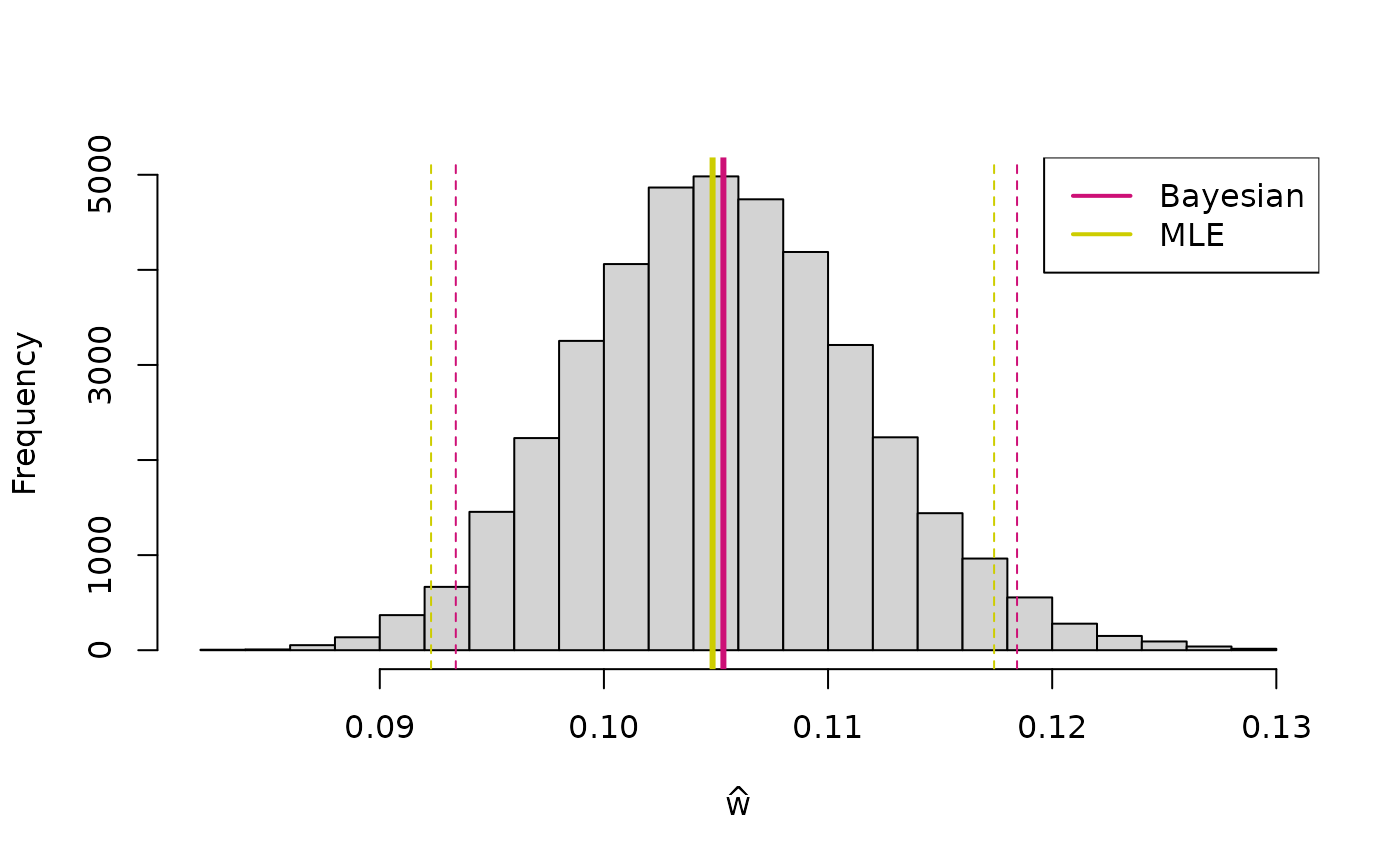
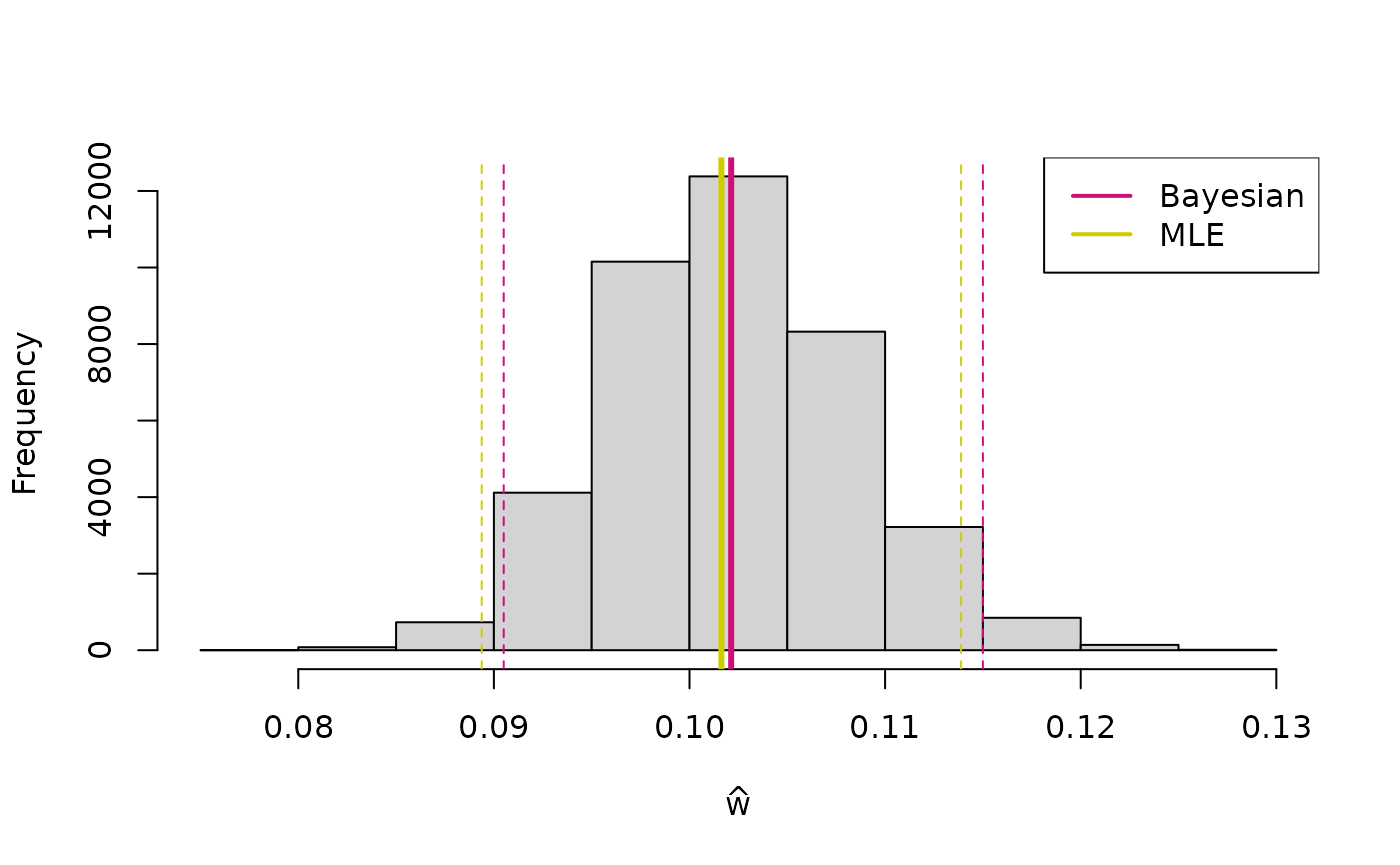
Add citation etc.

diff --git a/docs/index.html b/docs/index.html
@@ -70,6 +70,14 @@
 </h1></div>
 <p>Please refer to the online documentation at <a href="https://mikldk.github.io/wgsLR" class="external-link uri">https://mikldk.github.io/wgsLR</a>, including the vignettes.</p>
 <div class="section level2">
+<h2 id="scientific-publication">Scientific publication<a class="anchor" aria-label="anchor" href="#scientific-publication"></a>
+</h2>
+<p>The research associated with this software is described in</p>
+<blockquote>
+<p>Andersen, M. M., Kampmann, M.-L., Jepsen, A. H., Morling, N., Eriksen, P. S., Børsting, C., &amp; Andersen, J. D. (2025). <em>Shotgun DNA sequencing for human identification: Dynamic SNP selection and likelihood ratio calculations accounting for errors.</em> Forensic Science International: Genetics, 74, 103146. <a href="https://doi.org/10.1016/j.fsigen.2024.103146" class="external-link">doi:10.1016/j.fsigen.2024.103146</a>.</p>
+</blockquote>
+</div>
+<div class="section level2">
 <h2 id="installation">Installation<a class="anchor" aria-label="anchor" href="#installation"></a>
 </h2>
 <p>To install from Github with vignettes run this command from within <code>R</code> (please install <code>remotes</code> first if not already installed):</p>
@@ -91,13 +99,18 @@
 <span><span class="va">tab</span></span></code></pre></div>
 <div class="sourceCode" id="cb4"><pre class="sourceCode R"><code class="sourceCode r"><span id="cb4-1"><a href="#cb4-1" tabindex="-1"></a><span class="do">##    </span></span>
 <span id="cb4-2"><a href="#cb4-2" tabindex="-1"></a><span class="do">##       0   1   2</span></span>
-<span id="cb4-3"><a href="#cb4-3" tabindex="-1"></a><span class="do">##   0 265  73   5</span></span>
-<span id="cb4-4"><a href="#cb4-4" tabindex="-1"></a><span class="do">##   1  63 119  76</span></span>
-<span id="cb4-5"><a href="#cb4-5" tabindex="-1"></a><span class="do">##   2   7  55 337</span></span></code></pre></div>
+<span id="cb4-3"><a href="#cb4-3" tabindex="-1"></a><span class="do">##   0 221  73   8</span></span>
+<span id="cb4-4"><a href="#cb4-4" tabindex="-1"></a><span class="do">##   1  63 121  75</span></span>
+<span id="cb4-5"><a href="#cb4-5" tabindex="-1"></a><span class="do">##   2   5  92 342</span></span></code></pre></div>
 <div class="sourceCode" id="cb5"><pre class="downlit sourceCode r">
 <code class="sourceCode R"><span><span class="va">w_mle</span> <span class="op">&lt;-</span> <span class="fu">wgsLR</span><span class="fu">::</span><span class="fu"><a href="reference/estimate_w.html">estimate_w</a></span><span class="op">(</span><span class="va">tab</span><span class="op">)</span></span>
 <span><span class="va">w_mle</span></span></code></pre></div>
-<div class="sourceCode" id="cb6"><pre class="sourceCode R"><code class="sourceCode r"><span id="cb6-1"><a href="#cb6-1" tabindex="-1"></a><span class="do">## [1] 0.08645948</span></span></code></pre></div>
+<div class="sourceCode" id="cb6"><pre class="sourceCode R"><code class="sourceCode r"><span id="cb6-1"><a href="#cb6-1" tabindex="-1"></a><span class="do">## [1] 0.1004706</span></span></code></pre></div>
+<div class="section level4">
+<h4 id="cautionary-note-not-just-standard-vcf-files">Cautionary note: not just standard VCF files<a class="anchor" aria-label="anchor" href="#cautionary-note-not-just-standard-vcf-files"></a>
+</h4>
+<p>It is necessary to obtain sequencing results for all bases in the selected segments (including read depth and genotype quality). Thus, it is <strong>not</strong> sufficient to just use information from “confirmed”/high probability variants from the reference genome (variants identified in standard vcf-file format), as this can introduce bias in the results. <strong>Information from all bases in the chosen genomic areas of interest is needed</strong>. One way to achieve this by using <a href="https://gatk.broadinstitute.org/hc/en-us/articles/9570334998171-HaplotypeCaller" class="external-link">GATK HaplotypeCaller</a> with the additional argument <code>--emit-ref-confidence BP_RESOLUTION</code> for the genomic areas of interest (using <code>-L areas.interval_list</code>).</p>
+</div>
 </div>
 <div class="section level3">
 <h3 id="calculating-likelihood-ratios-lrs">Calculating likelihood ratios (<span class="math inline"><em>L</em><em>R</em></span>’s)<a class="anchor" aria-label="anchor" href="#calculating-likelihood-ratios-lrs"></a>

diff --git a/docs/articles/using-stan.html b/docs/articles/using-stan.html
@@ -90,7 +90,7 @@
 <span><span class="co">#&gt; [3,]    0    0    0</span></span>
 <span><span class="va">w_b</span> <span class="op">&lt;-</span> <span class="fu">wgsLR</span><span class="fu">::</span><span class="fu"><a href="../reference/estimate_w_bayesian.html">estimate_w_bayesian</a></span><span class="op">(</span><span class="va">tab</span><span class="op">)</span> <span class="op">|&gt;</span> <span class="fu"><a href="../reference/posterior_samples.html">posterior_samples</a></span><span class="op">(</span><span class="op">)</span></span>
 <span><span class="fu"><a href="https://rdrr.io/r/base/mean.html" class="external-link">mean</a></span><span class="op">(</span><span class="va">w_b</span><span class="op">)</span></span>
-<span><span class="co">#&gt; [1] 0.008201107</span></span></code></pre></div>
+<span><span class="co">#&gt; [1] 0.008213987</span></span></code></pre></div>
 <p>Instead of using the built-in simple Metropolis-Hastings sampler, it
 may be a good idea to use e.g. Stan for production purposes:</p>
 <div class="sourceCode" id="cb3"><pre class="downlit sourceCode r">
@@ -136,13 +136,15 @@ may be a good idea to use e.g. Stan for production purposes:</p>
 <span>                   show_messages <span class="op">=</span> <span class="cn">FALSE</span><span class="op">)</span></span>
 <span><span class="va">fit_mn</span></span>
 <span><span class="co">#&gt;  variable  mean median   sd  mad    q5   q95 rhat ess_bulk ess_tail</span></span>
-<span><span class="co">#&gt;      lp__ -5.87  -5.57 0.81 0.38 -7.51 -5.29 1.00     1177     1221</span></span>
-<span><span class="co">#&gt;      w     0.01   0.01 0.01 0.01  0.00  0.02 1.00     1407     1254</span></span>
-<span><span class="co">#&gt;      p[1]  0.97   0.98 0.03 0.02  0.92  1.00 1.00     1407     1254</span></span>
-<span><span class="co">#&gt;      p[2]  0.00   0.00 0.00 0.00  0.00  0.00 1.00     1407     1254</span></span>
-<span><span class="co">#&gt;      p[3]  0.03   0.02 0.03 0.02  0.00  0.08 1.00     1407     1254</span></span>
+<span><span class="co">#&gt;      lp__ -5.89  -5.56 0.86 0.37 -7.54 -5.29 1.00     1096      854</span></span>
+<span><span class="co">#&gt;      w     0.01   0.00 0.01 0.01  0.00  0.02 1.00      878      792</span></span>
+<span><span class="co">#&gt;      p[1]  0.97   0.98 0.03 0.02  0.92  1.00 1.00      878      792</span></span>
+<span><span class="co">#&gt;      p[2]  0.00   0.00 0.00 0.00  0.00  0.00 1.00      878      792</span></span>
+<span><span class="co">#&gt;      p[3]  0.03   0.02 0.03 0.02  0.00  0.08 1.00      878      792</span></span>
 <span><span class="va">fit_mn</span><span class="op">$</span><span class="fu">draws</span><span class="op">(</span><span class="st">"w"</span><span class="op">)</span> <span class="op">|&gt;</span> <span class="fu"><a href="https://rdrr.io/r/base/c.html" class="external-link">c</a></span><span class="op">(</span><span class="op">)</span> <span class="op">|&gt;</span> <span class="fu"><a href="https://rdrr.io/r/base/mean.html" class="external-link">mean</a></span><span class="op">(</span><span class="op">)</span></span>
-<span><span class="co">#&gt; [1] 0.007302717</span></span></code></pre></div>
+<span><span class="co">#&gt; [1] 0.006908506</span></span></code></pre></div>
+<p><em>Please be aware of the “Cautionary note” in the README (about not
+just using standard VCF-files).</em></p>
   </main>
 </div>
 

diff --git a/docs/articles/introduction.html b/docs/articles/introduction.html
@@ -90,21 +90,23 @@
 <span><span class="va">tab</span></span>
 <span><span class="co">#&gt;    </span></span>
 <span><span class="co">#&gt;       0   1   2</span></span>
-<span><span class="co">#&gt;   0 259  70   8</span></span>
-<span><span class="co">#&gt;   1  58 109  86</span></span>
-<span><span class="co">#&gt;   2  13  84 313</span></span></code></pre></div>
+<span><span class="co">#&gt;   0 238  68  10</span></span>
+<span><span class="co">#&gt;   1  67 114  78</span></span>
+<span><span class="co">#&gt;   2   4  91 330</span></span></code></pre></div>
 <div class="section level3">
 <h3 id="maximum-likelihood-estimation">Maximum likelihood estimation<a class="anchor" aria-label="anchor" href="#maximum-likelihood-estimation"></a>
 </h3>
 <div class="sourceCode" id="cb3"><pre class="downlit sourceCode r">
 <code class="sourceCode R"><span><span class="va">w_mle</span> <span class="op">&lt;-</span> <span class="fu">wgsLR</span><span class="fu">::</span><span class="fu"><a href="../reference/estimate_w.html">estimate_w</a></span><span class="op">(</span><span class="va">tab</span><span class="op">)</span></span>
 <span><span class="va">w_mle</span></span>
-<span><span class="co">#&gt; [1] 0.1048484</span></span>
+<span><span class="co">#&gt; [1] 0.1016306</span></span>
 <span><span class="va">w_mle_se</span> <span class="op">&lt;-</span> <span class="fu">wgsLR</span><span class="fu">::</span><span class="fu"><a href="../reference/estimate_w_se.html">estimate_w_se</a></span><span class="op">(</span><span class="va">tab</span>, <span class="va">w_mle</span><span class="op">)</span></span>
 <span><span class="va">w_mle_se</span></span>
-<span><span class="co">#&gt; [1] 0.006280068</span></span></code></pre></div>
+<span><span class="co">#&gt; [1] 0.006126988</span></span></code></pre></div>
 <p>The last lines estimate the standard error that will be used below to
 construct an approximate confidence interval.</p>
+<p><em>Please be aware of the “Cautionary note” in the README (about not
+just using standard VCF-files).</em></p>
 </div>
 <div class="section level3">
 <h3 id="bayesian-inference">Bayesian inference<a class="anchor" aria-label="anchor" href="#bayesian-inference"></a>
@@ -126,6 +128,8 @@ the “Using Stan for Bayesian inference” vignette):</p>
 <p><img src="introduction_files/figure-html/unnamed-chunk-5-1.png" width="700"></p>
 <p>The dashed lines indicate approximate confidence intervals (maximum
 likelihood estimation) and credible interval (Bayesian inference).</p>
+<p><em>Please be aware of the “Cautionary note” in the README (about not
+just using standard VCF-files).</em></p>
 </div>
 </div>
 <div class="section level2">

diff --git a/docs/authors.html b/docs/authors.html
@@ -62,18 +62,23 @@
 
     <div class="section level2 citation">
       <h2 id="citation">Citation</h2>
-      <p><small class="dont-index">Source: <a href="https://github.com/mikldk/wgsLR/blob/HEAD/DESCRIPTION" class="external-link"><code>DESCRIPTION</code></a></small></p>
+      <p><small class="dont-index">Source: <a href="https://github.com/mikldk/wgsLR/blob/HEAD/inst/CITATION" class="external-link"><code>inst/CITATION</code></a></small></p>
 
-      <p>Andersen M, Eriksen P (2024).
-<em>wgsLR: Whole-genome sequencing genotype error estimation and forensic likelihood ratios accounting for errors</em>.
-R package version 0.0.1, <a href="https://github.com/mikldk/wgsLR" class="external-link">https://github.com/mikldk/wgsLR</a>. 
+      <p>Andersen M, Kampmann M, Jepsen A, Morling N, Eriksen P, Børsting C, Andersen J (2025).
+“Shotgun DNA sequencing for human identification: Dynamic SNP selection and likelihood ratio calculations accounting for errors.”
+<em>Forensic Science International: Genetics</em>, <b>74</b>.
+ISSN 1872-4973, <a href="https://doi.org/10.1016/j.fsigen.2024.103146" class="external-link">doi:10.1016/j.fsigen.2024.103146</a>, <a href="https://doi.org/10.1016/j.fsigen.2024.103146" class="external-link">https://doi.org/10.1016/j.fsigen.2024.103146</a>. 
 </p>
-      <pre>@Manual{,
-  title = {wgsLR: Whole-genome sequencing genotype error estimation and forensic likelihood ratios accounting for errors},
-  author = {Mikkel Meyer Andersen and Poul Svante Eriksen},
-  year = {2024},
-  note = {R package version 0.0.1},
-  url = {https://github.com/mikldk/wgsLR},
+      <pre>@Article{wgsLR,
+  doi = {10.1016/j.fsigen.2024.103146},
+  url = {https://doi.org/10.1016/j.fsigen.2024.103146},
+  author = {Mikkel Meyer Andersen and Marie-Louise Kampmann and Alberte Honoré Jepsen and Niels Morling and Poul Svante Eriksen and Claus Børsting and Jeppe Dyrberg Andersen},
+  title = {{Shotgun DNA sequencing for human identification: Dynamic SNP selection and likelihood ratio calculations accounting for errors}},
+  journal = {Forensic Science International: Genetics},
+  volume = {74},
+  issn = {1872-4973},
+  publisher = {Elsevier BV},
+  year = {2025},
 }</pre>
     </div>
   </main><aside class="col-md-3"><nav id="toc"><h2>On this page</h2>

diff --git a/README.md b/README.md
@@ -4,6 +4,17 @@
 Please refer to the online documentation at
 <https://mikldk.github.io/wgsLR>, including the vignettes.
 
+## Scientific publication
+
+The research associated with this software is described in
+
+> Andersen, M. M., Kampmann, M.-L., Jepsen, A. H., Morling, N., Eriksen,
+> P. S., Børsting, C., & Andersen, J. D. (2025). *Shotgun DNA sequencing
+> for human identification: Dynamic SNP selection and likelihood ratio
+> calculations accounting for errors.* Forensic Science International:
+> Genetics, 74, 103146.
+> [doi:10.1016/j.fsigen.2024.103146](https://doi.org/10.1016/j.fsigen.2024.103146).
+
 ## Installation
 
 To install from Github with vignettes run this command from within `R`
@@ -28,16 +39,29 @@ tab
 
     ##    
     ##       0   1   2
-    ##   0 265  73   5
-    ##   1  63 119  76
-    ##   2   7  55 337
+    ##   0 221  73   8
+    ##   1  63 121  75
+    ##   2   5  92 342
 
 ``` r
 w_mle <- wgsLR::estimate_w(tab)
 w_mle
 ```
 
-    ## [1] 0.08645948
+    ## [1] 0.1004706
+
+#### Cautionary note: not just standard VCF files
+
+It is necessary to obtain sequencing results for all bases in the
+selected segments (including read depth and genotype quality). Thus, it
+is **not** sufficient to just use information from “confirmed”/high
+probability variants from the reference genome (variants identified in
+standard vcf-file format), as this can introduce bias in the results.
+**Information from all bases in the chosen genomic areas of interest is
+needed**. One way to achieve this by using [GATK
+HaplotypeCaller](https://gatk.broadinstitute.org/hc/en-us/articles/9570334998171-HaplotypeCaller)
+with the additional argument `--emit-ref-confidence BP_RESOLUTION` for
+the genomic areas of interest (using `-L areas.interval_list`).
 
 ### Calculating likelihood ratios ($LR$’s)
 
